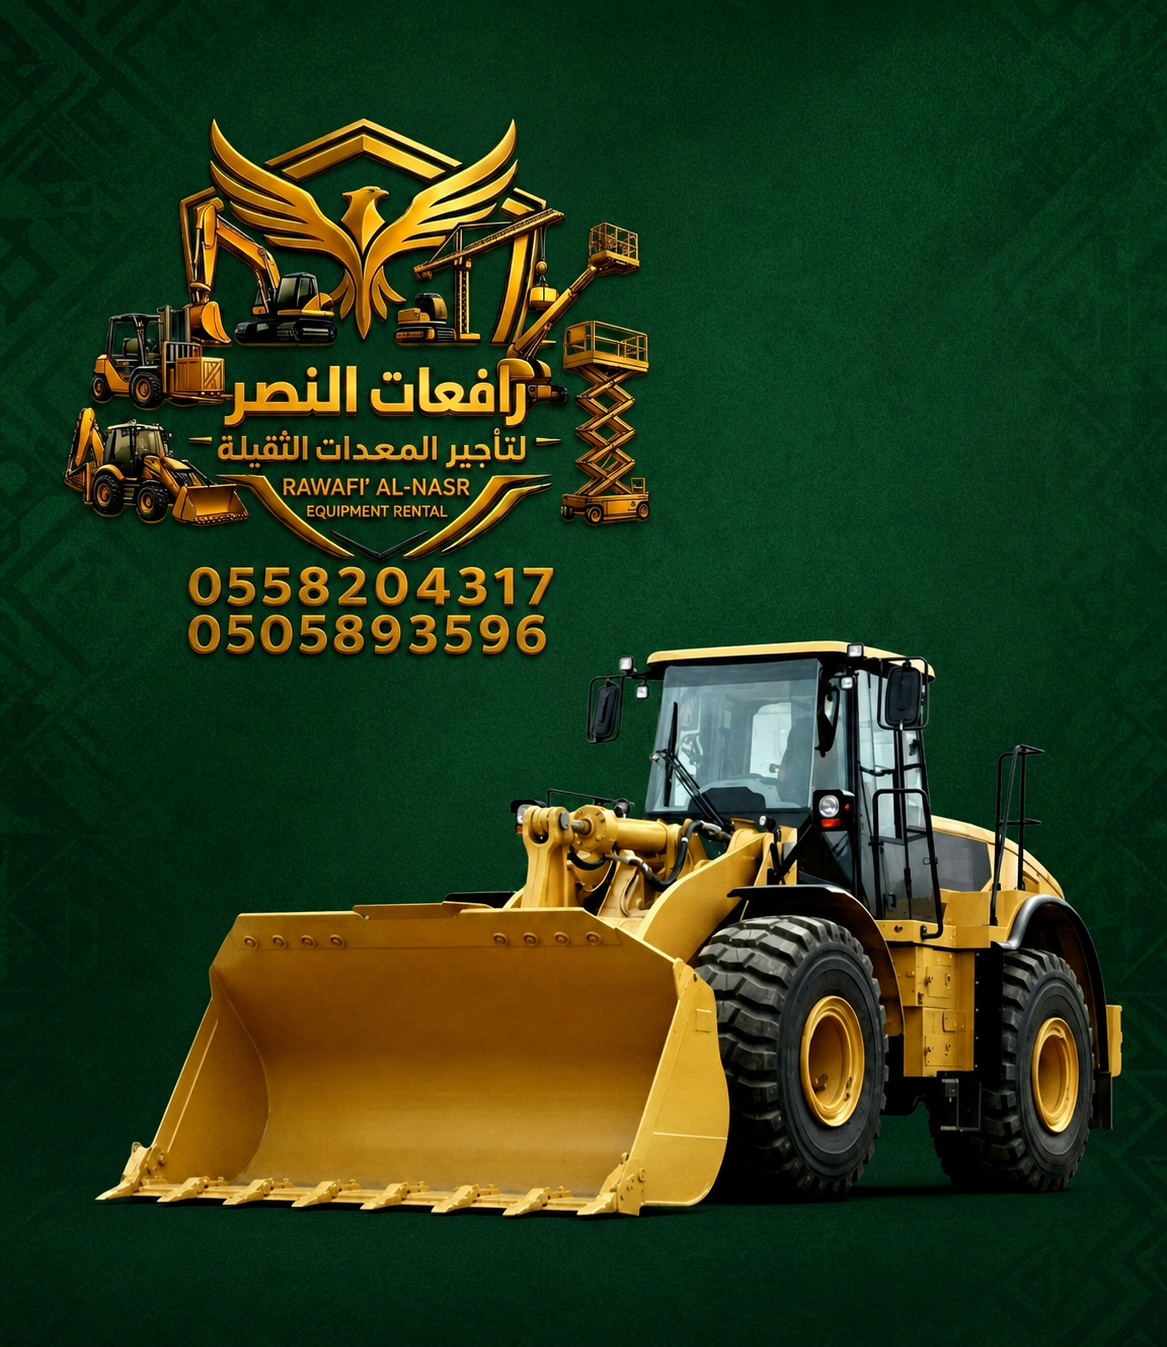
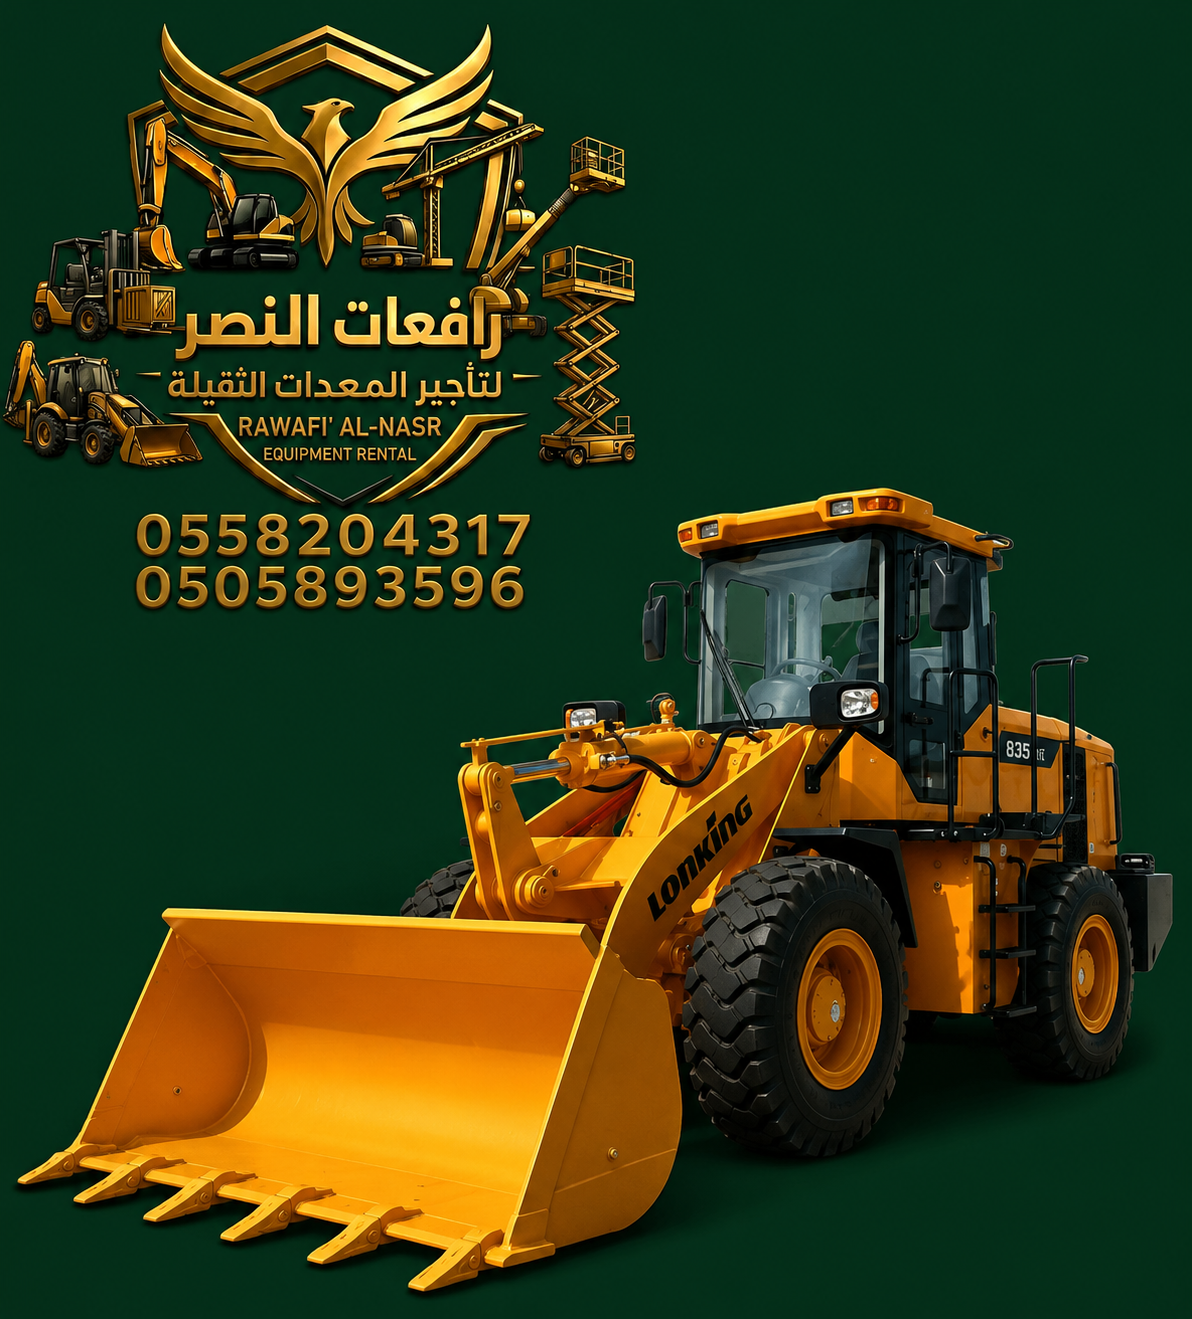
adding GET QUOTE

diff --git a/components/site/Hero.tsx b/components/site/Hero.tsx
@@ -1,5 +1,6 @@
+import Image from "next/image";
 import type { Locale } from "@/types/site";
-import { translations } from "@/data/content";
+import { translations, WHATSAPP_NUMBER } from "@/data/content";
 import Stats from "./Stats";
 
 export default function Hero({ locale }: { locale: Locale }) {
@@ -24,8 +25,14 @@ export default function Hero({ locale }: { locale: Locale }) {
             <a href="#equipment" className="btn-primary">
               {t.hero.browseCta}
             </a>
-            <a href="#contact" className="btn-secondary">
-              {t.hero.contactCta}
+            <a
+              href={`https://wa.me/${WHATSAPP_NUMBER}?text=${encodeURIComponent("مرحبا! نريد الحصول على أفضل عرض سعر منكم للمعدات التالية:")}`}
+              target="_blank"
+              rel="noreferrer"
+              className="inline-flex items-center gap-2 rounded-full bg-[#06281A] px-6 py-3 font-black text-white shadow-[0_4px_18px_rgba(6,40,26,0.50)] transition hover:bg-[#041c12] hover:shadow-[0_6px_24px_rgba(6,40,26,0.65)] hover:-translate-y-0.5"
+            >
+              <Image src="/whatsapp-icon.svg" alt="WhatsApp" width={20} height={20} className="h-5 w-5" />
+              {locale === "ar" ? "الحصول على عرض سعر" : "GET QUOTE"}
             </a>
           </div>
           <Stats items={t.stats} />

diff --git a/components/site/EquipmentDetailPage.tsx b/components/site/EquipmentDetailPage.tsx
@@ -104,13 +104,13 @@ export default function EquipmentDetailPage({ locale, equipment, related }: Prop
             </div>
 
             {/* Image side */}
-            <div className={`${isAr ? "order-2" : "order-1"} relative mx-auto w-full max-w-sm overflow-hidden rounded-2xl bg-[#1a2434] shadow-xl lg:max-w-full`}>
+            <div className={`${isAr ? "order-2" : "order-1"} mx-auto w-full max-w-sm overflow-hidden rounded-2xl shadow-xl lg:max-w-full`}>
               <Image
                 src={equipment.image}
                 alt={name}
-                width={600}
-                height={420}
-                className="h-64 w-full object-cover md:h-80 lg:h-96"
+                width={900}
+                height={1200}
+                className="w-full h-auto"
                 priority
               />
             </div>
@@ -203,7 +203,7 @@ export default function EquipmentDetailPage({ locale, equipment, related }: Prop
                   <article key={rel.slug} className="group relative overflow-hidden rounded-[14px] border border-slate-100 bg-white shadow-[0_8px_22px_rgba(15,23,42,0.10)] transition duration-300 hover:-translate-y-1 hover:shadow-xl">
                     <Link href={`/${locale}/equipment/${rel.slug}`} className="absolute inset-0 z-0 rounded-[14px]" aria-label={relName} />
                     <div className="relative h-36 overflow-hidden bg-[#eef2f7] sm:h-44 md:h-48">
-                      <Image src={rel.image} alt={relName} fill className="object-cover transition duration-300 group-hover:scale-105" sizes="(max-width:768px) 50vw, 25vw" />
+                      <Image src={rel.image} alt={relName} fill className="object-contain transition duration-300 group-hover:scale-105" sizes="(max-width:768px) 50vw, 25vw" />
                     </div>
                     <div className="bg-white">
                       <div className="min-h-[86px] px-3 py-3 text-center md:min-h-[96px] md:px-4">

diff --git a/components/site/EquipmentCard.tsx b/components/site/EquipmentCard.tsx
@@ -27,7 +27,7 @@ export default function EquipmentCard({ item, locale, categoryLabel, requestNowL
         />
       )}
       <div className="relative h-36 overflow-hidden bg-[#eef2f7] sm:h-44 md:h-48">
-        <Image src={item.image} alt={`${name} - النصر`} fill className="object-cover transition duration-300 group-hover:scale-105" sizes="(max-width:768px) 50vw, 25vw" />
+        <Image src={item.image} alt={`${name} - النصر`} fill className="object-contain transition duration-300 group-hover:scale-105" sizes="(max-width:768px) 50vw, 25vw" />
         {item.badge && (
           <span className="absolute left-1/2 top-1/2 -translate-x-1/2 -translate-y-1/2 rounded-full bg-[#006C35] px-2.5 py-1 text-[10px] font-black text-white shadow md:text-xs">
             {item.badge}

diff --git a/components/site/Header.tsx b/components/site/Header.tsx
@@ -33,7 +33,7 @@ export default function Header({ locale, brandName, links, languageLabel }: Prop
   }, []);
 
   return (
-    <header className={`fixed inset-x-0 top-0 z-50 transition ${scrolled ? "bg-[#06281A]/95 shadow-lg backdrop-blur" : "bg-transparent"}`}>
+    <header className={`fixed inset-x-0 top-0 z-50 transition bg-[#06281A]/95 backdrop-blur ${scrolled ? "shadow-lg" : ""}`}>
       <div className="section-container flex h-20 items-center justify-between">
         <a href={resolve("#home")} aria-label={`${brandName} home`} className="flex shrink-0 items-center gap-3">
           <Image src="/logo.png" alt={brandName} width={56} height={56} className="h-14 w-14 rounded-full object-cover" priority />